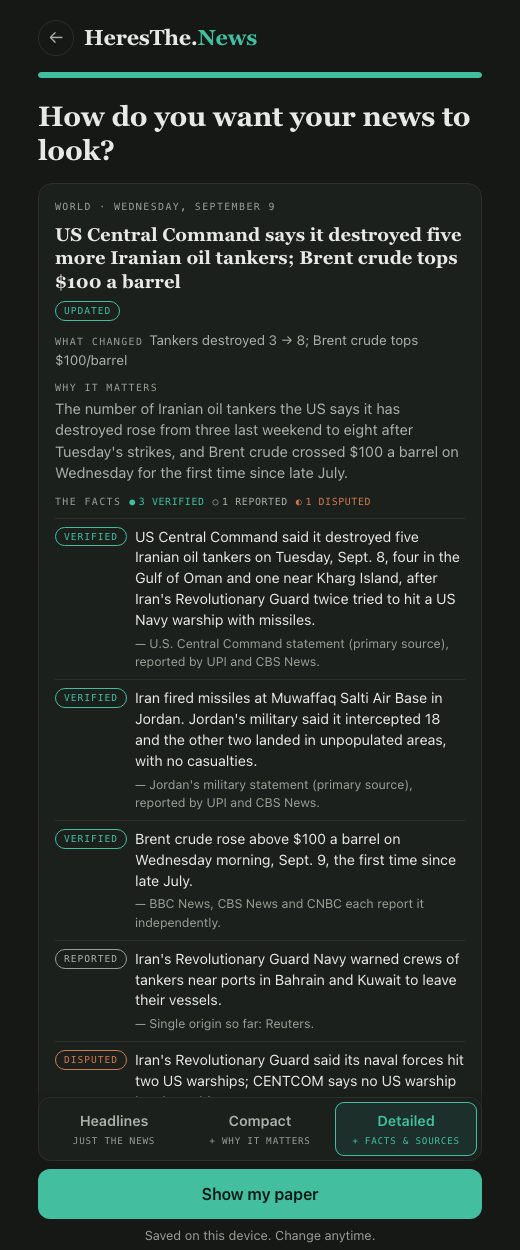
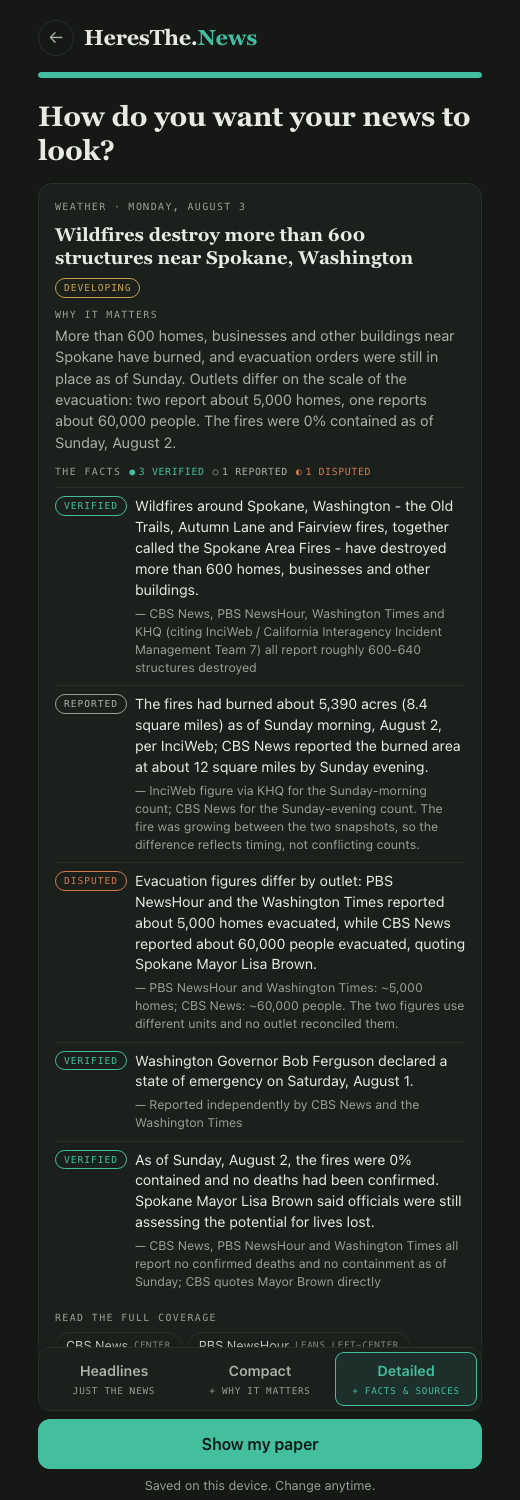
Example story: Spokane wildfires (Aug 3 edition), verbatim
Swaps the CENTCOM tanker story for a simpler one that still carries all three
labels (3 verified, 1 reported, 1 disputed) and names four outlets with lean
tags. Adds the site's 'Read the full coverage' source row. Demo scroll offsets
retuned so the facts header, then the disputed fact and its sources, sit in frame.

Changed region(s): [[0.0615, 0.0, 0.9231, 0.9984]]

diff --git a/story.js b/story.js
@@ -1,18 +1,19 @@
-// The example story, marked up the same way the live site renders one.
+// The example story, verbatim from the HeresThe.News edition of August 3, 2026,
+// marked up the same way the live site renders it.
 const STORY_HTML = `
 <article class="story-card">
-  <p class="kicker">World · Wednesday, September 9</p>
-  <h3 class="headline">US Central Command says it destroyed five more Iranian oil tankers; Brent crude tops $100 a barrel</h3>
-  <div class="sum-meta"><span class="chip chip-upd">updated</span></div>
-  <p class="update-note"><span class="un-k">What changed</span>Tankers destroyed 3 → 8; Brent crude tops $100/barrel</p>
-  <div class="impact-wrap"><p class="impact"><span class="impact-label">Why it matters</span>The number of Iranian oil tankers the US says it has destroyed rose from three last weekend to eight after Tuesday's strikes, and Brent crude crossed $100 a barrel on Wednesday for the first time since late July.</p></div>
+  <p class="kicker">Weather · Monday, August 3</p>
+  <h3 class="headline">Wildfires destroy more than 600 structures near Spokane, Washington</h3>
+  <div class="sum-meta"><span class="chip status-developing">developing</span></div>
+  <div class="impact-wrap"><p class="impact"><span class="impact-label">Why it matters</span>More than 600 homes, businesses and other buildings near Spokane have burned, and evacuation orders were still in place as of Sunday. Outlets differ on the scale of the evacuation: two report about 5,000 homes, one reports about 60,000 people. The fires were 0% contained as of Sunday, August 2.</p></div>
   <p class="facts-head">The facts <span class="fcount fc-v"><i>●</i>3 verified</span><span class="fcount"><i>○</i>1 reported</span><span class="fcount fc-d"><i>◐</i>1 disputed</span></p>
   <ul class="facts">
-    <li class="fact"><span class="chip status-verified">verified</span><span class="fact-text">US Central Command said it destroyed five Iranian oil tankers on Tuesday, Sept. 8, four in the Gulf of Oman and one near Kharg Island, after Iran's Revolutionary Guard twice tried to hit a US Navy warship with missiles.<span class="corr">— U.S. Central Command statement (primary source), reported by UPI and CBS News.</span></span></li>
-    <li class="fact"><span class="chip status-verified">verified</span><span class="fact-text">Iran fired missiles at Muwaffaq Salti Air Base in Jordan. Jordan's military said it intercepted 18 and the other two landed in unpopulated areas, with no casualties.<span class="corr">— Jordan's military statement (primary source), reported by UPI and CBS News.</span></span></li>
-    <li class="fact"><span class="chip status-verified">verified</span><span class="fact-text">Brent crude rose above $100 a barrel on Wednesday morning, Sept. 9, the first time since late July.<span class="corr">— BBC News, CBS News and CNBC each report it independently.</span></span></li>
-    <li class="fact"><span class="chip status-reported">reported</span><span class="fact-text">Iran's Revolutionary Guard Navy warned crews of tankers near ports in Bahrain and Kuwait to leave their vessels.<span class="corr">— Single origin so far: Reuters.</span></span></li>
-    <li class="fact"><span class="chip status-disputed">disputed</span><span class="fact-text">Iran's Revolutionary Guard said its naval forces hit two US warships; CENTCOM says no US warship has been hit.<span class="corr">— Iranian state media (IRNA) vs. U.S. Central Command. Outlets disagree; both accounts shown.</span></span></li>
+    <li class="fact"><span class="chip status-verified">verified</span><span class="fact-text">Wildfires around Spokane, Washington - the Old Trails, Autumn Lane and Fairview fires, together called the Spokane Area Fires - have destroyed more than 600 homes, businesses and other buildings.<span class="corr">— CBS News, PBS NewsHour, Washington Times and KHQ (citing InciWeb / California Interagency Incident Management Team 7) all report roughly 600-640 structures destroyed</span></span></li>
+    <li class="fact"><span class="chip status-reported">reported</span><span class="fact-text">The fires had burned about 5,390 acres (8.4 square miles) as of Sunday morning, August 2, per InciWeb; CBS News reported the burned area at about 12 square miles by Sunday evening.<span class="corr">— InciWeb figure via KHQ for the Sunday-morning count; CBS News for the Sunday-evening count. The fire was growing between the two snapshots, so the difference reflects timing, not conflicting counts.</span></span></li>
+    <li class="fact"><span class="chip status-disputed">disputed</span><span class="fact-text">Evacuation figures differ by outlet: PBS NewsHour and the Washington Times reported about 5,000 homes evacuated, while CBS News reported about 60,000 people evacuated, quoting Spokane Mayor Lisa Brown.<span class="corr">— PBS NewsHour and Washington Times: ~5,000 homes; CBS News: ~60,000 people. The two figures use different units and no outlet reconciled them.</span></span></li>
+    <li class="fact"><span class="chip status-verified">verified</span><span class="fact-text">Washington Governor Bob Ferguson declared a state of emergency on Saturday, August 1.<span class="corr">— Reported independently by CBS News and the Washington Times</span></span></li>
+    <li class="fact"><span class="chip status-verified">verified</span><span class="fact-text">As of Sunday, August 2, the fires were 0% contained and no deaths had been confirmed. Spokane Mayor Lisa Brown said officials were still assessing the potential for lives lost.<span class="corr">— CBS News, PBS NewsHour and Washington Times all report no confirmed deaths and no containment as of Sunday; CBS quotes Mayor Brown directly</span></span></li>
   </ul>
-  <a class="coverage" href="#">Read the full coverage →</a>
+  <p class="srcs-head">Read the full coverage</p>
+  <p class="source-links"><span class="src"><a href="https://www.cbsnews.com/news/spokane-washington-wildfire-evacuations-old-trails-fire/" target="_blank" rel="noopener">CBS News</a><span class="lean-tag">center</span></span><span class="src"><a href="https://www.pbs.org/newshour/nation/eastern-washington-fires-have-burned-600-structures-and-forced-the-evacuation-of-5000-homes" target="_blank" rel="noopener">PBS NewsHour</a><span class="lean-tag">leans left-center</span></span><span class="src"><a href="https://www.washingtontimes.com/news/2026/aug/2/eastern-washington-fires-burned-600-structures-forced-evacuation-5000/" target="_blank" rel="noopener">Washington Times</a><span class="lean-tag">leans right</span></span><span class="src"><a href="https://www.khq.com/fires/evacuations-expanded-for-spokane-area-fires-burning-5-390-acres-600-structures-destroyed/article_8f1a90ab-1bb3-4fb7-8b6a-8464137bd373.html" target="_blank" rel="noopener">KHQ (citing InciWeb)</a></span></p>
 </article>`;

diff --git a/style.css b/style.css
@@ -46,8 +46,8 @@ p{margin:0 0 14px;color:var(--ink-2)}
 .demo{width:290px;text-align:left}
 .demo .screen{position:relative;height:250px;padding:12px 12px 0;border:1px solid var(--line);border-radius:16px;background:var(--card);overflow:hidden}
 .demo .story-card{font-size:.72rem;border:0;padding:0;margin:0;background:none;transition:transform 1.1s ease}
-.demo .scroll-1 .story-card{transform:translateY(-215px)}
-.demo .scroll-2 .story-card{transform:translateY(-395px)}
+.demo .scroll-1 .story-card{transform:translateY(-240px)}
+.demo .scroll-2 .story-card{transform:translateY(-675px)}
 .demo .story-card .headline{font-size:.9rem}
 .demo .story-card .impact,.demo .story-card .fact-text{font-size:.66rem}
 .demo .story-card .corr{font-size:.58rem}
@@ -97,11 +97,15 @@ p{margin:0 0 14px;color:var(--ink-2)}
 .fact{display:grid;grid-template-columns:auto 1fr;gap:8px;align-items:start;padding:8px 0;border-top:1px solid var(--line)}
 .fact .fact-text{font-size:.9rem;color:var(--ink)}
 .fact .corr{display:block;font-size:.78rem;color:var(--ink-3);margin-top:4px}
-.coverage{display:block;font-family:var(--mono);font-size:.62rem;letter-spacing:.12em;text-transform:uppercase;color:var(--green);text-decoration:none;padding:10px 0 8px}
+.srcs-head{font-family:var(--mono);font-size:.62rem;letter-spacing:.14em;text-transform:uppercase;color:var(--ink-3);margin:12px 0 6px}
+.source-links{display:flex;flex-wrap:wrap;gap:6px;margin:0 0 10px}
+.source-links .src{display:inline-flex;align-items:center;gap:6px;border:1px solid var(--line);border-radius:999px;padding:4px 10px;font-size:.8rem}
+.source-links a{color:var(--ink);text-decoration:none}
+.lean-tag{font-family:var(--mono);font-size:.56rem;letter-spacing:.08em;text-transform:uppercase;color:var(--ink-3)}
 
 /* reading styles: what each one shows */
-.mode-headlines .update-note,.mode-headlines .impact-wrap,.mode-headlines .facts-head,.mode-headlines .facts,.mode-headlines .coverage{display:none}
-.mode-compact .update-note,.mode-compact .facts-head,.mode-compact .facts,.mode-compact .coverage{display:none}
+.mode-headlines .update-note,.mode-headlines .impact-wrap,.mode-headlines .facts-head,.mode-headlines .facts,.mode-headlines .srcs-head,.mode-headlines .source-links{display:none}
+.mode-compact .update-note,.mode-compact .facts-head,.mode-compact .facts,.mode-compact .srcs-head,.mode-compact .source-links{display:none}
 .mode-headlines .story-card,.mode-compact .story-card{padding-bottom:10px}
 
 /* ---------- style picker ---------- */
